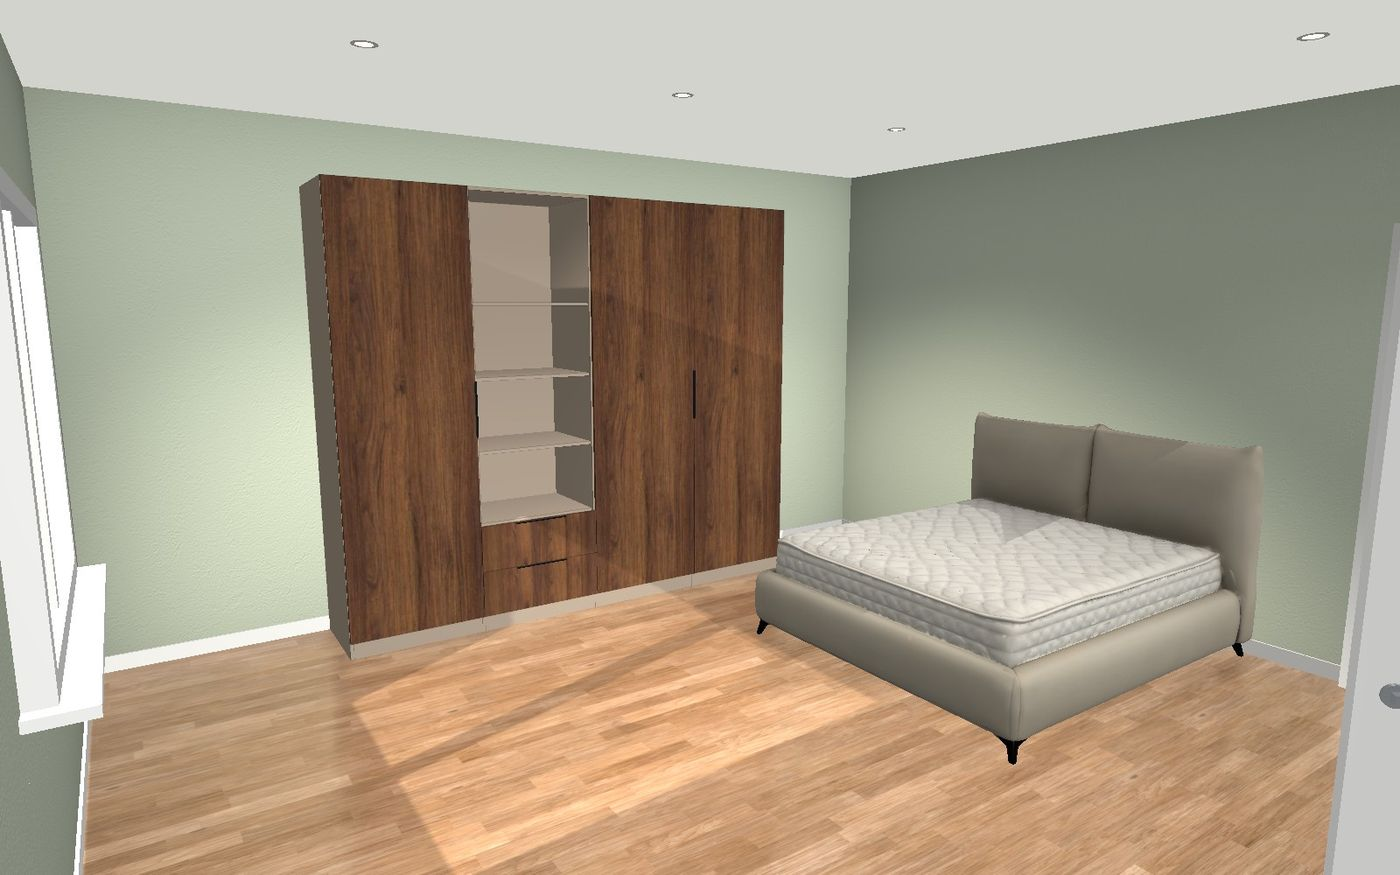
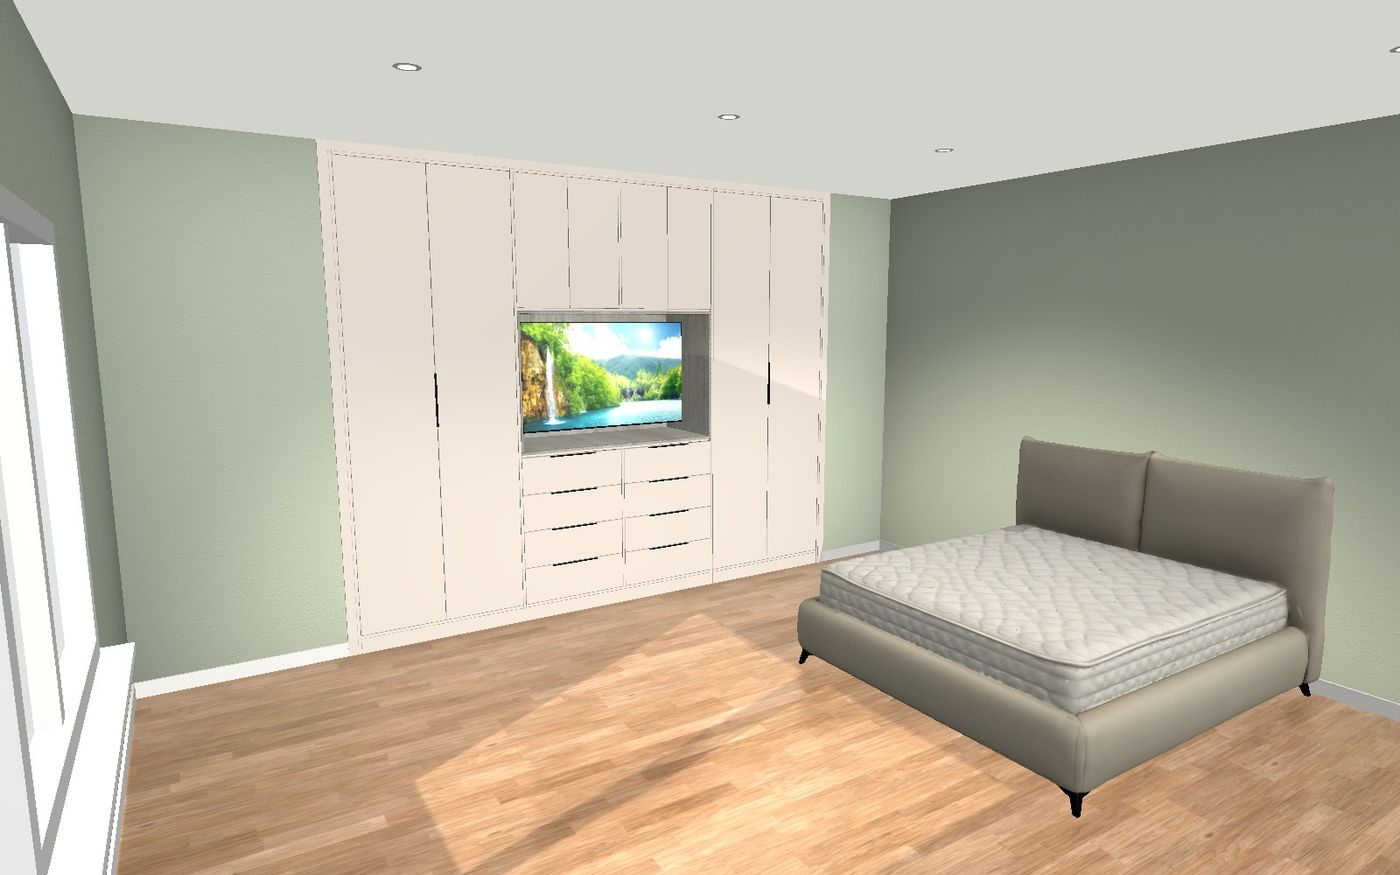
Landing room section: use real customer cabinet designs (TV-niche wall unit, wall-adjacent desk wardrobe)

diff --git a/landing.html b/landing.html
@@ -557,7 +557,7 @@ footer{background:#0a1628;padding:60px 40px 30px;color:rgba(255,255,255,.6)}
 
     <div class="room-hero">
       <figure class="room-shot rvl">
-        <img src="images/room/room-3d.jpg" alt="הדמיית חדר שינה בתלת-ממד עם ארון אגוז, עמודת מדפים פתוחה, מיטה, ריצוף פרקט ותאורת ספוטים" width="1400" height="875" loading="lazy">
+        <img src="images/room/room-3d.jpg" alt="הדמיית חדר שינה בתלת-ממד עם ארון קיר, נישת טלוויזיה ומגירות, מיטה, ריצוף פרקט ותאורת ספוטים" width="1400" height="875" loading="lazy">
         <figcaption><i class="fa-solid fa-cube"></i> הדמיית החדר בתלת-ממד — צילום מתוך המערכת</figcaption>
       </figure>
       <ul class="room-points rvr">
@@ -575,8 +575,8 @@ footer{background:#0a1628;padding:60px 40px 30px;color:rgba(255,255,255,.6)}
         <figcaption><i class="fa-solid fa-map"></i> תוכנית החדר במבט על — הוספת פריטים והגדרות ריצוף</figcaption>
       </figure>
       <figure class="room-shot rv d2">
-        <img src="images/room/room-tiles.jpg" alt="אותו חדר עם ארון אלון ושחור, ידיות זהב, ריצוף גרניט פורצלן קררה וקירות בגוון בז'" width="1400" height="875" loading="lazy">
-        <figcaption><i class="fa-solid fa-swatchbook"></i> אותו חדר בסגנון אחר — גרניט פורצלן קררה, קירות בז' וארון אלון-שחור</figcaption>
+        <img src="images/room/room-tiles.jpg" alt="חדר עם ארון ירוק ושולחן עבודה משולב צמוד לקיר, ריצוף גרניט פורצלן קררה וקירות בגוון בז'" width="1400" height="875" loading="lazy">
+        <figcaption><i class="fa-solid fa-swatchbook"></i> ארון עם שולחן עבודה צמוד לקיר — גרניט פורצלן קררה וקירות בז'</figcaption>
       </figure>
     </div>
 
